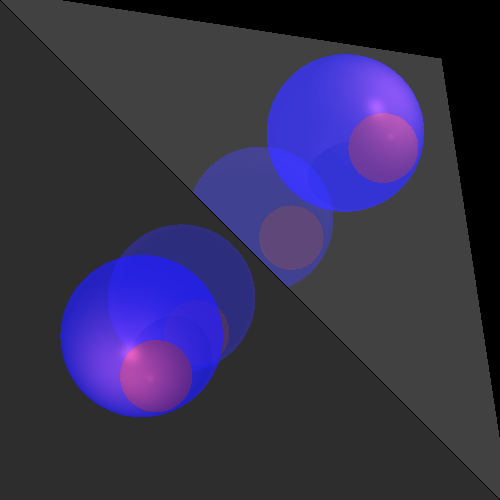
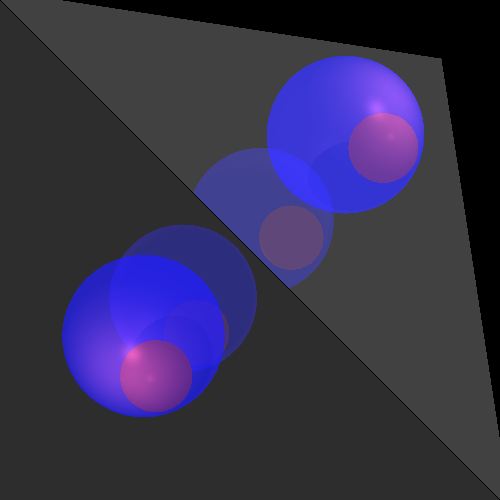
played around with our picture

diff --git a/Tests/elements/ReflectionRefractionTests.java b/Tests/elements/ReflectionRefractionTests.java
@@ -138,22 +138,26 @@ public class ReflectionRefractionTests {
                 new Sphere(450, new Point3D(-600, -477, -1100)) //
                         .setEmission(new Color(0, 0, 100)) //
                         .setMaterial(new Material().setKd(0.25).setKs(0.25).setShininess(20).setKt(0.6)),
-                new Sphere(200, new Point3D(-520, -700, -1090)) //
+                new Sphere(200, new Point3D(-500, -700, -1090)) //
                         .setEmission(new Color(100, 20, 20)) //
                         .setMaterial(new Material().setKd(0.25).setKs(0.25).setShininess(40)),
+                new Triangle(new Point3D(1500, -1500, -1500), new Point3D(-1500, 1500, -1500),
+                        new Point3D(-1500, -1500, -2000)) //
+                        .setEmission(new Color(20, 20, 20)) //
+                        .setMaterial(new Material().setKr(0.5)),
                 new Triangle(new Point3D(1500, -1500, -1500), new Point3D(-1500, 1500, -1500),
                         new Point3D(670, 670, 3000)) //
                         .setEmission(new Color(20, 20, 20)) //
                         .setMaterial(new Material().setKr(1)),
-                new Triangle(new Point3D(1500, -1500, -1500), new Point3D(-1500, 1500, -1500),
-                        new Point3D(-1500, -1500, -2000)) //
-                        .setEmission(new Color(20, 20, 20)) //
-                        .setMaterial(new Material().setKr(0.5)));
+                new Triangle(new Point3D(-1200, -1000, 500), new Point3D(-700,-1000, 500),
+                new Point3D(-600, -200,2000))
+                .setEmission(new Color(20 ,1, 0))
+                .setMaterial(new Material().setKd(0.25).setKs(0.25).setShininess(20).setKt(0.9)));
 
         scene.lights.add(new SpotLight(new Color(1020, 400, 400), new Point3D(-750, -750, -150), new Vector(-1, -1, -4)) //
                 .setKl(0.00001).setKq(0.000005));
 
-        ImageWriter imageWriter = new ImageWriter("allEffectsTest4", 500, 500);
+        ImageWriter imageWriter = new ImageWriter("allEffectsTest8", 500, 500);
         Render render = new Render() //
                 .setImageWriter(imageWriter) //
                 .setCamera(camera) //
